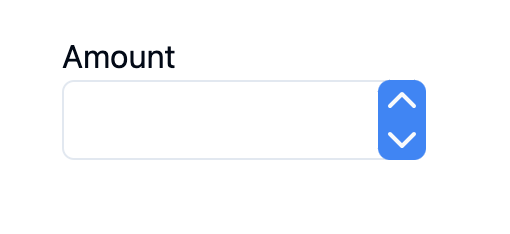
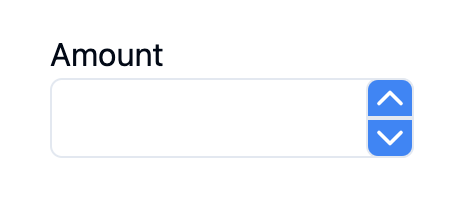
refactor: images of  docs

Changed region(s): [[0.0929, 0.3303, 0.9292, 0.7431], [0.0929, 0.1927, 0.3717, 0.3028]]

diff --git a/apps/web/app/number-field/button/page.tsx b/apps/web/app/number-field/button/page.tsx
@@ -14,12 +14,12 @@ export default function Page() {
       <NumberField>
         <NumberFieldLabel>Amount</NumberFieldLabel>
         <NumberFieldGroup>
-          <NumberFieldIncrement className='bg-blue-500'>
+          <NumberFieldIncrement className='bg-blue-500 text-white'>
             {/* customize the increment button's icon */}
             <ChevronUpIcon />
           </NumberFieldIncrement>
           <NumberFieldInput />
-          <NumberFieldDecrement className='bg-blue-500'>
+          <NumberFieldDecrement className='bg-blue-500 text-white'>
             {/* customize the decrement button's icon */}
             <ChevronDownIcon />
           </NumberFieldDecrement>

diff --git a/packages/number-field/src/number-field.tsx b/packages/number-field/src/number-field.tsx
@@ -91,19 +91,8 @@ const NumberField = React.forwardRef<NumberFieldRef, NumberFieldProps>(
     // TODO: Incompatible with react-aria
     numberFieldProps.inputProps.name = props.name;
 
-    React.useImperativeHandle(ref, () => ({
-      state,
-      numberFieldProps,
-    }));
-
     // TODO: fix this
     console.log('many times');
-    // console.log('state.realtimeValidation:', state.realtimeValidation);
-    // console.log('numberFieldProps.validationErrors888:', numberFieldProps);
-    // console.log(
-    //   'numberFieldProps.validationDetails:',
-    //   numberFieldProps.validationDetails
-    // );
 
     return (
       <NumberFieldContext.Provider

diff --git a/apps/web/app/number-field/input/page.tsx b/apps/web/app/number-field/input/page.tsx
@@ -19,11 +19,11 @@ export default function Page() {
       >
         <NumberFieldLabel>Amount</NumberFieldLabel>
         <NumberFieldGroup>
-          <NumberFieldIncrement>
+          <NumberFieldIncrement className='border-blue-500'>
             <ChevronUpIcon />
           </NumberFieldIncrement>
           <NumberFieldInput className='border-blue-500 w-[500px] focus-visible:ring-blue-500' />
-          <NumberFieldDecrement>
+          <NumberFieldDecrement className='border-blue-500'>
             <ChevronDownIcon />
           </NumberFieldDecrement>
         </NumberFieldGroup>

diff --git a/README.md b/README.md
@@ -40,15 +40,10 @@ npx shadcn@latest add "https://v0.dev/chat/b/oTN3LY2"
 <NumberField>
   <NumberFieldLabel>Amount</NumberFieldLabel>
   <NumberFieldGroup>
-    <NumberFieldIncrement>
-      {/* ChevronUpIcon from 'lucide-react' */}
-      <ChevronUpIcon />
+    <NumberFieldIncrement />
     </NumberFieldIncrement>
     <NumberFieldInput />
-    <NumberFieldDecrement>
-      {/* ChevronDownIcon from 'lucide-react' */}
-      <ChevronDownIcon />
-    </NumberFieldDecrement>
+    <NumberFieldDecrement />
   </NumberFieldGroup>
 </NumberField>
 ```
@@ -266,11 +261,11 @@ The `NumberFieldInput` style can be fully customized.
 <NumberField>
   <NumberFieldLabel>Amount</NumberFieldLabel>
   <NumberFieldGroup>
-    <NumberFieldIncrement>
+    <NumberFieldIncrement className='border-blue-500'>
       <ChevronUpIcon />
     </NumberFieldIncrement>
     <NumberFieldInput className='border-blue-500 w-[500px] focus-visible:ring-blue-500' />
-    <NumberFieldDecrement>
+    <NumberFieldDecrement className='border-blue-500'>
       <ChevronDownIcon />
     </NumberFieldDecrement>
   </NumberFieldGroup>
@@ -489,13 +484,13 @@ You can fully customize the button style and its children.
   <NumberFieldLabel>Amount</NumberFieldLabel>
   <NumberFieldGroup>
     {/* customize the increment button's style */}
-    <NumberFieldIncrement className='bg-blue-500'>
+    <NumberFieldIncrement className='bg-blue-500 text-white'>
       {/* customize the increment button's icon */}
       <ChevronUpIcon />
     </NumberFieldIncrement>
     <NumberFieldInput />
     {/* customize the decrement button's style */}
-    <NumberFieldDecrement className='bg-blue-500'>
+    <NumberFieldDecrement className='bg-blue-500 text-white'>
       {/* customize the decrement button's icon */}
       <ChevronDownIcon />
     </NumberFieldDecrement>
@@ -590,7 +585,7 @@ By default, displays the error message provided by the browser, which is localiz
     <NumberFieldError />
   </NumberField>
 
-  <div className='flex gap-4 justify-around'>
+  <div className='flex gap-4 jus tify-around'>
     <button type='submit'>submit</button>
     <button type='reset'>reset</button>
   </div>
